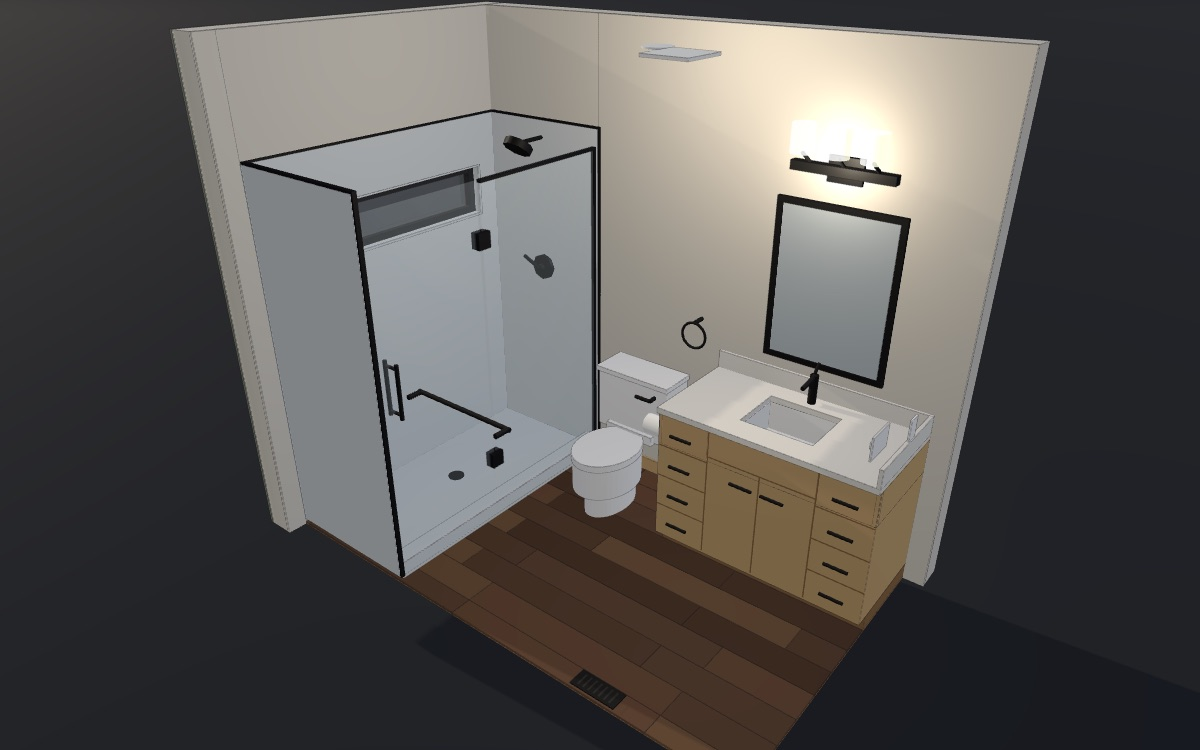
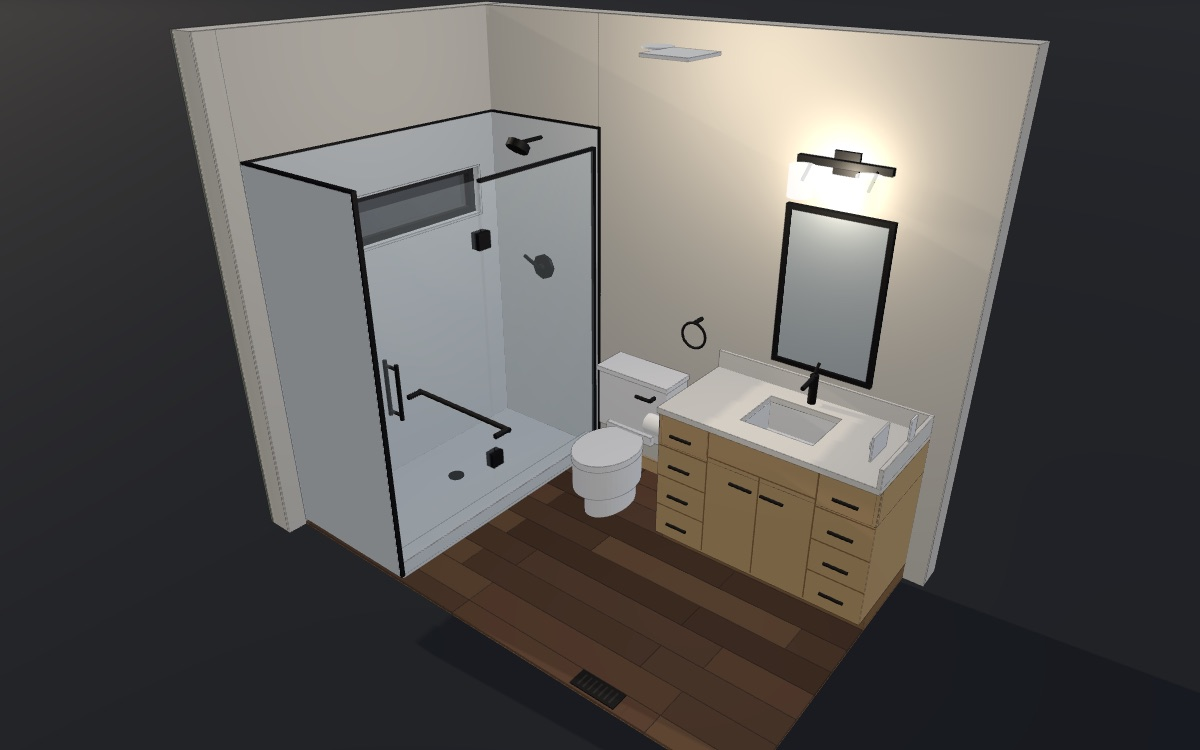
feat: guest bath fixtures match the main bath (Moen UT3312, Kohler Artifacts sconce + Essential mirror)

Changed region(s): [[0.6167, 0.1227, 0.7708, 0.5213]]

diff --git a/guest-bath.html b/guest-bath.html
@@ -74,8 +74,9 @@
     (30", LH in-swing) is hinged at the kitchen wall. Walls and openings follow the A02 dim chains; device and light positions are scaled
     from E01 / M01 (&plusmn;1", M01 &plusmn;3"). <b>Orange = not on record or the sheets disagree:</b> S3.2 puts the hall-wall header (a door)
     at the plumbing-wall corner, 34" south of A02's door 6; A04 lists window C's rough width as 3'-0 1/2" against a 4'-0" unit; the
-    M01 fan and the E01 recessed can land 9" apart; the register sits under the open door; the shower trim model is open (the BoD kit is a
-    tub/shower). Finishes (dark rustic LVP, knotty alder, light quartz) carry the owner's main-bath / kitchen picks and are assumptions
+    M01 fan and the E01 recessed can land 9" apart; the register sits under the open door. <b>Fixtures match the main bath</b> (owner
+    2026-09-10): Moen UT3312 shower trim, Moen 6402 faucet, Kohler Artifacts 72582 sconce over a Kohler K-26052 mirror.
+    Finishes (dark rustic LVP, knotty alder, light quartz) carry the owner's main-bath / kitchen picks and are assumptions
     here; the BoD leaves the bath cabinet TBD. No site photos or field tape of this room yet -- A02's own <i>5'-3 1/4" FIELD VERIFY</i>
     on the alcove is open. <b>Not engineered &mdash; do not build from this.</b>
     Spec: <code>outputs/guest-bath-3d-spec.md</code>. Drag to orbit &middot; scroll to zoom &middot; right-drag to pan &middot;
@@ -1596,7 +1597,7 @@ const D = {
   // vanity in the plumbing-wall / hall-wall corner: 24 3/4" deep counter, 48" long (owner 2026-09-10; A02 drew 42 1/2"), faces north
   VAN_X1: 3.25, VAN_X2: 27.0, CTR_X2: 28.0, VAN_Z1: 33.5, VAN_Z2: 81.5, CTR_Y: 34.75, CTR_T: 1.25,
   SINK_XC: 15.5, SINK_ZC: 57.5, SINK_L: 13, SINK_W: 16, FAUCET_X: 6.5,   // sink centered on the 48" vanity (owner decision 2026-09-10; A02 symbol 49.5)
-  MIR_HW: 12, MIR_Y1: 44, MIR_Y2: 76, BAR_L: 20.9,   // 24" x 32" mirror and the Bellevue bar centered on the sink
+  MIR_HW: 11.03, MIR_Y1: 42, MIR_Y2: 76.06,          // Kohler K-26052 Essential 22 1/16" x 34 1/16" mirror, bottom 42", + Artifacts 72582 sconce 3" above -- same as the main bath
   // toilet centerline: re-centered between the 48" vanity end (81.5) and the shower glass (117.5) -- 18" each side; A02 drew it at 104
   WC_Z: 99.5,
   // devices: E01 can + GFCI + 3-gang, M01 fan + floor register
@@ -1908,12 +1909,13 @@ box(D.PW_IN, D.KP_IN, D.CEIL, D.CEIL + D.GYP_T, D.HW_IN, D.EW_IN, M.gyp, 'ceilin
 {
   const L = 'tub', T = 'tile', G = 'glass', tt = D.TILE_T, z1 = D.SH_Z1, z2 = D.SH_Z2, ez = D.EW_S1 - tt, yb = D.PAN_T;
   const xf = D.PW_N + tt, gz = D.GLASS_Z, gh = D.GLASS_H, zc = D.TRIM_Z;
-  // shower-only trim on the plumbing-wall tile face, centered on the pan (the BoD UT2313EP is a tub/shower kit -- superseded)
+  // Moen UT3312 Belfield M-CORE shower trim on the plumbing-wall tile face, centered on the pan -- same as the main bath (owner 2026-09-10);
+  // the BoD UT2313EP tub/shower kit is out
   bar(V(xf, D.VALVE_Y, zc), V(xf + 1.0, D.VALVE_Y, zc), 3.2, M.black, L);              // escutcheon
   bar(V(xf + 1.0, D.VALVE_Y, zc), V(xf + 2.2, D.VALVE_Y, zc), 0.9, M.black, L);
   bar(V(xf + 2.2, D.VALVE_Y, zc), V(xf + 2.6, D.VALVE_Y + 2.5, zc + 4.5), 0.45, M.black, L);   // lever
   bar(V(xf, D.ARM_Y, zc), V(xf + 7.5, D.ARM_Y, zc), 0.5, M.black, L);                  // shower arm
-  bar(V(xf + 7.5, D.ARM_Y, zc), V(xf + 8.6, D.ARM_Y - 1.4, zc), 3.4, M.black, L);      // head
+  bar(V(xf + 7.5, D.ARM_Y, zc), V(xf + 8.6, D.ARM_Y - 1.4, zc), 2.75, M.black, L);     // head (UT3312 single-function, as drawn upstairs)
   const th = D.TILE_H;
   box(D.PW_N, D.PW_N + tt, yb, th, z1, ez, M.tile, T);                                  // 0931 tile: plumbing-wall end, pan to 7'-0"
   box(D.PW_N, D.PW_N + tt + 0.1, yb, th + 0.5, z1 - 0.5, z1, M.black, T, false);       // black edge trim, leading edge
@@ -1955,8 +1957,8 @@ box(D.PW_IN, D.KP_IN, D.CEIL, D.CEIL + D.GYP_T, D.HW_IN, D.EW_IN, M.gyp, 'ceilin
 }
 
 // ---- vanity: single sink in the plumbing-wall / hall-wall corner, 48" x 24 3/4" (owner 2026-09-10; A02 42 1/2"), faces north -------
-//      Sink centered on the 48" (owner decision 2026-09-10): 12" drawers | 24" doors | 12" drawers; the mirror, Bellevue bar and
-//      faucet follow the sink. Alder (BoD: TBD) and quartz (assumed).
+//      Sink centered on the 48" (owner decision 2026-09-10): 12" drawers | 24" doors | 12" drawers; the Kohler mirror + Artifacts
+//      sconce (as the main bath) and the Moen 6402 faucet follow the sink. Alder (BoD: TBD) and quartz (assumed).
 {
   const L = 'vanity', x1 = D.VAN_X1, x2 = D.VAN_X2, z1 = D.VAN_Z1, z2 = D.VAN_Z2, cy = D.CTR_Y;
   box(x1, x2 - 3, 0, 4, z1, z2, M.alderDk, L);                                        // toe kick, recessed 3"
@@ -1988,18 +1990,16 @@ box(D.PW_IN, D.KP_IN, D.CEIL, D.CEIL + D.GYP_T, D.HW_IN, D.EW_IN, M.gyp, 'ceilin
     cyl(fx, zc, ft, ft + 6.5, 0.9, M.black, L);
     bar(V(fx, ft + 6.2, zc), V(fx + 5.2, ft + 5.4, zc), 0.5, M.black, L);
     bar(V(fx, ft + 6.9, zc), V(fx - 1.6, ft + 8.6, zc), 0.35, M.black, L);
-    const m1 = zc - D.MIR_HW, m2 = zc + D.MIR_HW, f = 1.25;                            // 24" x 32" mirror, black frame (size assumed)
-    box(x1 + 0.05, x1 + 0.75, D.MIR_Y1, D.MIR_Y2, m1, m2, M.mirror, L, false);
-    box(x1, x1 + 1.0, D.MIR_Y1 - f, D.MIR_Y1, m1 - f, m2 + f, M.black, L); box(x1, x1 + 1.0, D.MIR_Y2, D.MIR_Y2 + f, m1 - f, m2 + f, M.black, L);
-    box(x1, x1 + 1.0, D.MIR_Y1, D.MIR_Y2, m1 - f, m1, M.black, L); box(x1, x1 + 1.0, D.MIR_Y1, D.MIR_Y2, m2, m2 + f, M.black, L);
-    const by = D.MIR_Y2 + 8, hl = D.BAR_L / 2;                                          // Bellevue EGBF23259 20.9" bar (BoD row 45); E01 circuit 2
-    box(x1, x1 + 0.75, by - 2.5, by + 2.5, zc - 3.5, zc + 3.5, M.black, L);
-    box(x1 + 0.75, x1 + 2.6, by - 0.9, by + 0.9, zc - hl, zc + hl, M.black, L);
-    for (const dzs of [-6.9, 0, 6.9]) {                                                 // three shades (count not on record)
-      bar(V(x1 + 1.7, by + 0.9, zc + dzs), V(x1 + 5.2, by + 3.2, zc + dzs), 0.35, M.black, L);
-      cyl(x1 + 5.5, zc + dzs, by + 3.2, by + 8.7, 2.3, M.shade, L);
-    }
-    const vl = new THREE.PointLight(0xfff0d8, 700, 0, 2); vl.position.set(x1 + 10, by + 2, zc); reg(vl, L);
+    // Kohler K-26052 Essential framed mirror 22 1/16" x 34 1/16" x 1 3/8", bottom y 42, + a Kohler Artifacts 72582 two-light sconce
+    // (18 3/4" W x 12 3/8" H x 6 3/4" ext.) 3" above it -- the main bath's 2026-09-09 selections, shared here (owner 2026-09-10)
+    const za = zc - D.MIR_HW, zb = zc + D.MIR_HW, ya = D.MIR_Y1, ym = D.MIR_Y2, fw = 1.0;
+    box(x1 + 0.05, x1 + 0.75, ya + fw, ym - fw, za + fw, zb - fw, M.mirror, L, false);
+    box(x1, x1 + 1.37, ya, ya + fw, za, zb, M.black, L); box(x1, x1 + 1.37, ym - fw, ym, za, zb, M.black, L);
+    box(x1, x1 + 1.37, ya, ym, za, za + fw, M.black, L); box(x1, x1 + 1.37, ya, ym, zb - fw, zb, M.black, L);
+    const by = ym + 3;                                                                  // sconce: backplate, arm bar, two arms + shades
+    box(x1, x1 + 0.75, by + 4.0, by + 8.4, zc - 2.5, zc + 2.5, M.black, L); box(x1 + 0.75, x1 + 2.0, by + 5.5, by + 6.9, zc - 9.375, zc + 9.375, M.black, L);
+    for (const dz of [-6.5, 6.5]) { bar(V(x1 + 1.4, by + 6.2, zc + dz), V(x1 + 5.0, by + 3.0, zc + dz), 0.35, M.black, L); cyl(x1 + 5.5, zc + dz, by, by + 6.0, 2.4, M.shade, L); }
+    const vl = new THREE.PointLight(0xfff0d8, 700, 0, 2); vl.position.set(x1 + 9, by + 3, zc); reg(vl, L);
   };
   gap(4.5, cy - 0.5, z1 + 11.85, z1 + 12.15); gap(4.5, cy - 0.5, z2 - 12.15, z2 - 11.85);   // 12" drawers | 24" doors | 12" drawers
   drawers(z1, z1 + 11.85); doors(z1 + 12.15, z2 - 12.15); drawers(z2 - 11.85, z2); sink(D.SINK_ZC);
@@ -2132,12 +2132,12 @@ label('S3.2 puts this wall\'s header (a door) at the plumbing-wall corner, 34" s
 label('Window C  4\'-0" x 1\'-0", sill 5\'-0" (A03, A04 type C, section 4)\nA04 schedule lists its rough width as 3\'-0 1/2" -- drawn 4\'-0 1/2"; returns tiled', 33, 84, 148, FLAG);
 tagNew('chaseOn', () => label('For comparison: 60" x 34" alcove pan in the A02 chase, 58 3/4" x 32" to the glass\nthe chase only existed to fit a standard insert. End wall radio: none (default) / chase', 33, 26, 133));
 tagNew('chaseOff', () => label('Full-width tiled shower, no chase (owner default 2026-09-10): 66 1/2" tile to tile x 32" to the glass\ntiled floor + 4" curb, custom frameless glass wall to wall (tile + glass door as upstairs)', 37, 26, 133));
-label('Shower-only trim, matte black -- the BoD UT2313EP is a tub/shower kit; pick the model (upstairs chose Moen UT3312)', 10, 90, 134.5, FLAG);
+label('Moen UT3312 Belfield M-CORE 3-Series shower trim, matte black -- same as the main bath (owner 2026-09-10)\nreplaces the BoD UT2313EP tub/shower kit', 10, 90, 133.5, NOTE);
 tagNew('chaseOn', () => label('Frameless glass: fixed panel at the valve end, 30" door hinged on the chase, swings out\n(a door at the valve end would sweep the toilet)', 33, 86, 118, NOTE));
 tagNew('chaseOff', () => label('Frameless glass wall to wall: 36 3/4" fixed panel at the valve end, 29 1/2" door on glass-to-glass hinges,\nswings out and closes against the kitchen wall (a valve-end door would sweep the toilet)', 37, 86, 118, NOTE));
 label('Tile 0931 (OPCI) to 7\'-0" on three walls, painted wall above (owner: not to the ceiling; height typical)', 40, 90, 148, NOTE);
-label('Single-sink vanity 48" x 24 3/4" (owner 2026-09-10; A02 42 1/2"), sink centered (owner decision): 12" drawers | 24" doors | 12" drawers\ncabinet species TBD in the BoD (drawn alder), quartz + mirror size assumed; the E01 receptacle stays on the hall wall', 16, 42, 58);
-label('Bellevue EGBF23259 20.9" bar (BoD row 45); E01 circuit 2 -- box lands on the sink centerline, 24" off the hall wall', 8, 97, D.SINK_ZC, NOTE);
+label('Single-sink vanity 48" x 24 3/4" (owner 2026-09-10; A02 42 1/2"), sink centered (owner decision): 12" drawers | 24" doors | 12" drawers\ncabinet species TBD in the BoD (drawn alder), quartz assumed; Moen 6402 faucet as upstairs; the E01 receptacle stays on the hall wall', 16, 42, 58);
+label('Kohler Artifacts 72582 two-light sconce over a Kohler K-26052 Essential 22" x 34" mirror -- same as the main bath (owner 2026-09-10)\nreplaces the BoD Bellevue EGBF23259 bar; the E01 circuit-2 box lands on the sink centerline, 24" off the hall wall', 8, 97, D.SINK_ZC, NOTE);
 label('Toilet -- American Standard (model not named)\ncenterline re-centered: 18" to the vanity end, 18" to the shower glass (A02 drew it 4 1/2" further toward the tub)', 22, 34, 99.5, FLAG);
 label('Recessed can (E01 ckt 2) and Broan 50 CFM fan (M01) land 9" apart\none moves ~6", or the fan becomes a fan/light', 40, 103, 74, FLAG);
 label('3-gang: vanity light / can / fan', D.SWITCH_X, 55, 36, NOTE);

diff --git a/index.html b/index.html
@@ -179,8 +179,9 @@
         window at 5'-0"; a 48" single-sink vanity in the hall-wall corner with the sink centered; the toilet re-centered with 18" to
         the vanity and 18" to the glass; matte-black fixtures throughout; tile to 7'-0". The shower opens as the owner's default, a
         full-width tiled shower with custom glass and no stub wall; a radio shows the permit set's 8 1/2" stub wall (sized for a 60"
-        insert) for comparison. Orange flags mark the structural sheet's door header landing 34" from the architect's door, a window
-        rough-width typo in the schedule, the fan and light drawn 9" apart, and the shower trim still to be picked.</p>
+        insert) for comparison. Fixtures match the main bath: Moen UT3312 trim, Moen 6402 faucet, Kohler Artifacts sconce over a
+        Kohler Essential mirror. Orange flags mark the structural sheet's door header landing 34" from the architect's door, a
+        window rough-width typo in the schedule, and the fan and light drawn 9" apart.</p>
         <span class="meta">Updated 2026-09-10 &middot; 7 camera views &middot; arrow keys walk the room &middot; stub wall on a radio &middot; each wall, ceiling, floor, shower, glass, tile, vanity, fixtures, lights and framing are toggles</span>
         <div class="chips">
           <a class="open" href="guest-bath.html">Open drawing</a>
